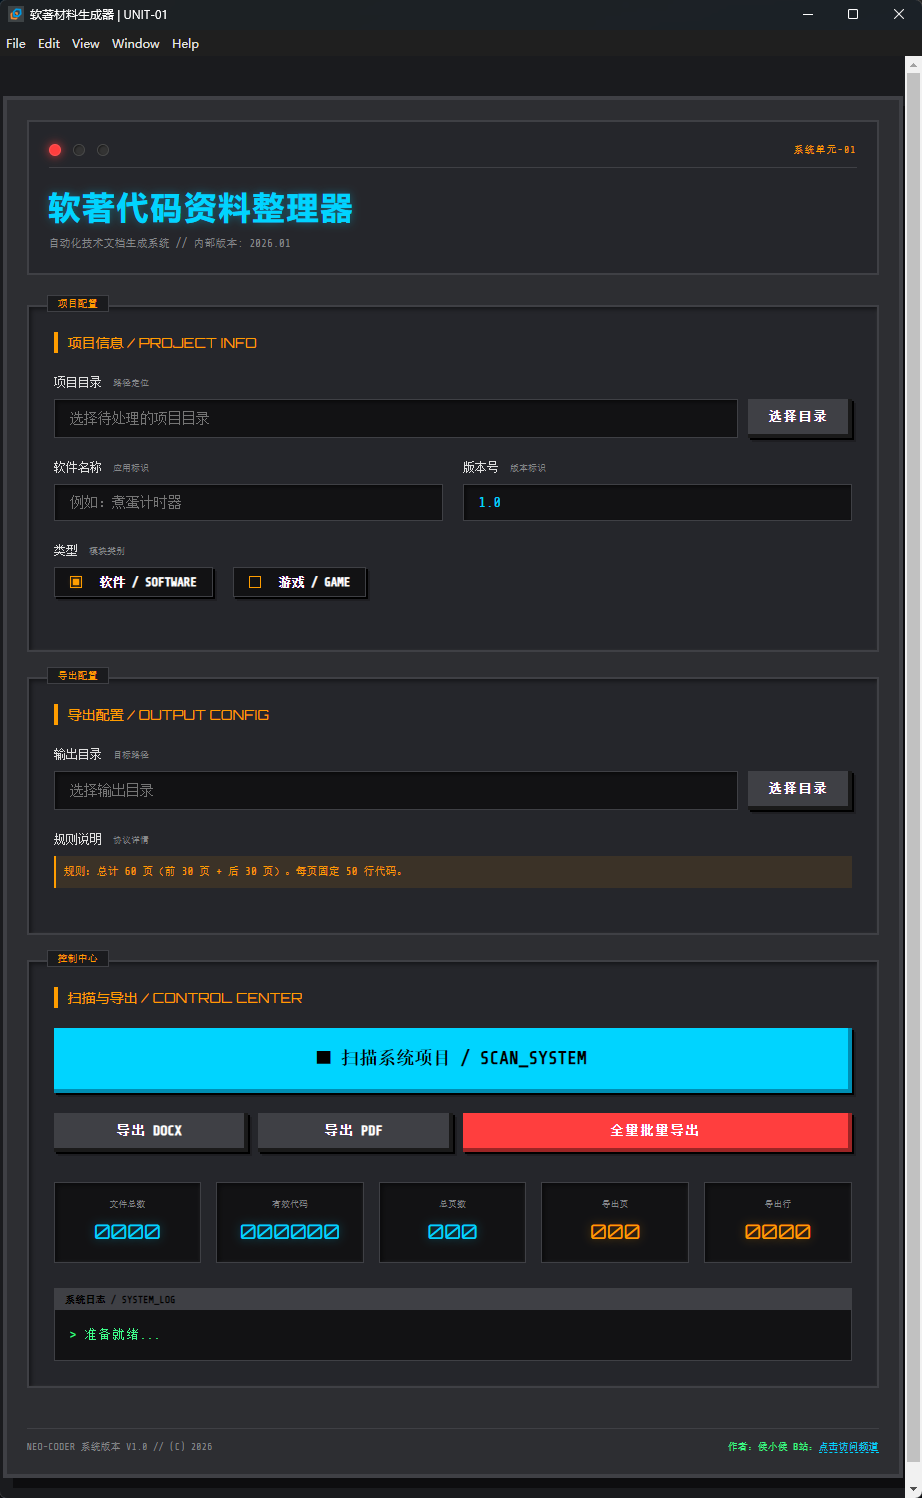
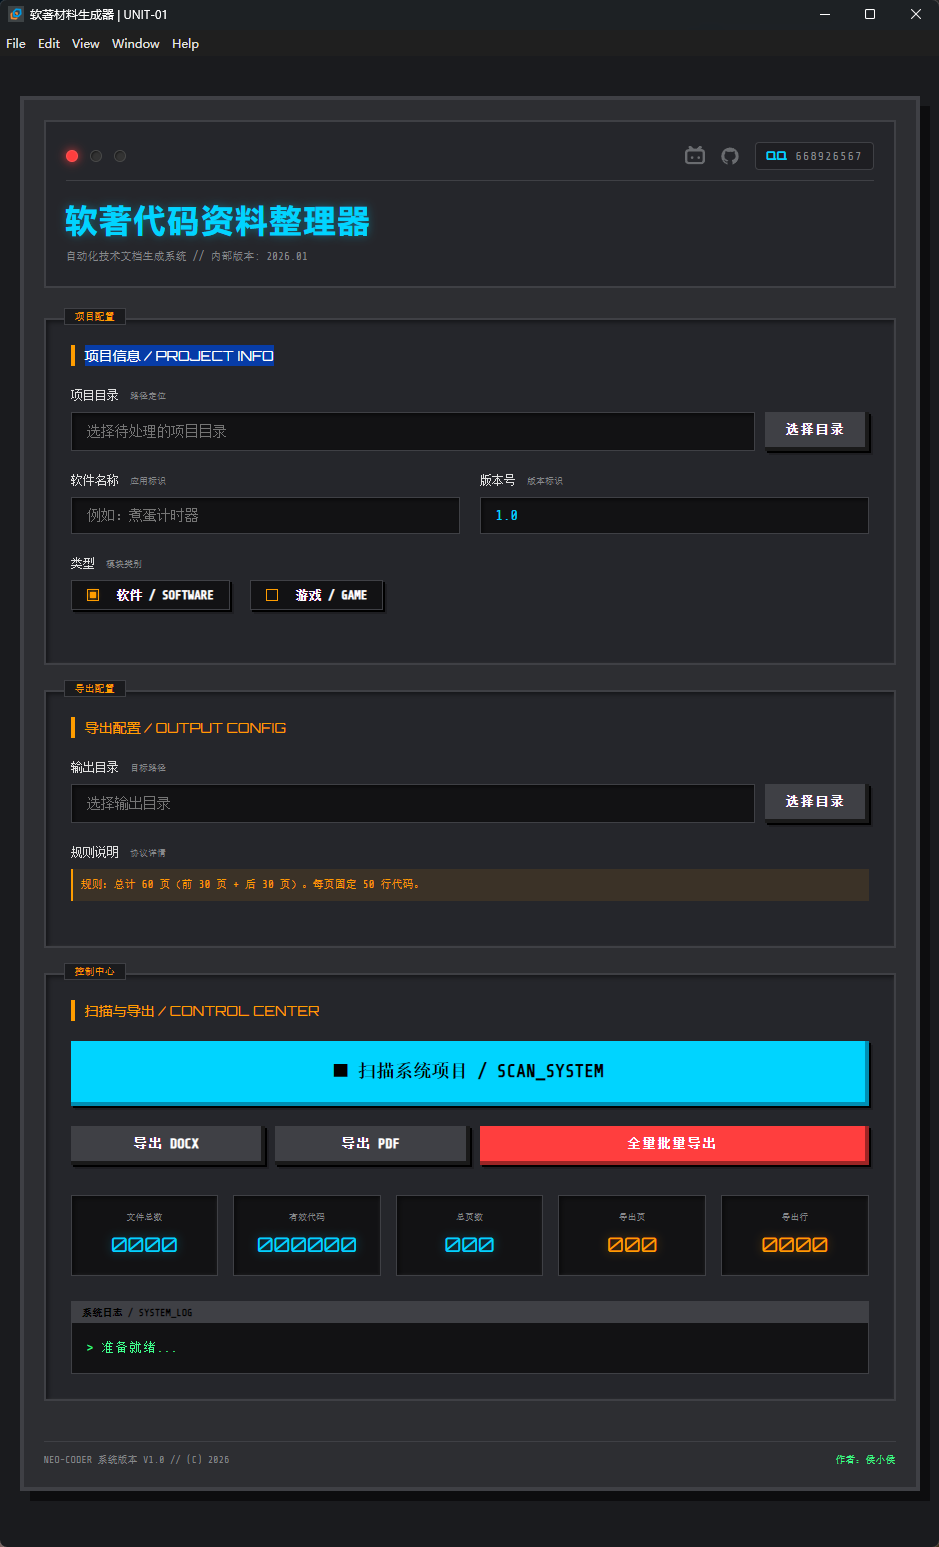
chore: update UI and gitignore

diff --git a/src/renderer/index.html b/src/renderer/index.html
@@ -1,4 +1,4 @@
-<!doctype html>
+<!doctype html>
 <html lang="zh-CN">
 
 <head>
@@ -26,7 +26,26 @@
           <span class="light amber"></span>
           <span class="light green"></span>
         </div>
-        <div class="model-tag">系统单元-01</div>
+        <div class="author-info">
+          <a href="#" class="social-link" id="linkBilibili" title="B站: 程序员小山与bug">
+            <!-- Bilibili Icon -->
+            <svg viewBox="0 0 512 512" width="16" height="16">
+              <path fill="currentColor"
+                d="M488.6 104.1c16.7 18.1 24.4 39.7 23.3 65.7v202.4c-.4 26.4-9.2 48.1-26.5 65.1-17.2 17-39.1 25.9-65.5 26.7H92.02c-26.45-.8-48.21-9.8-65.28-27.2C9.682 419.4.767 397.5 0 371.8V169.8c.766-26 9.682-47.6 26.74-65.7C43.81 87.75 65.57 78.77 92.02 78h29.38L96.05 52.24c-5.75-5.76-8.63-13.19-8.63-22.31 0-9.12 2.88-16.55 8.63-22.31l9.61-9.6a30.5 30.5 0 0 1 22.31-8.65c8.89 0 16.32 2.9 22.31 8.65l68.12 68.17h84.6l68.1-68.17c6-5.75 13.4-8.65 22.3-8.65 8.9 0 16.3 2.9 22.3 8.65l9.6 9.6c5.8 5.76 8.6 13.19 8.6 22.31 0 9.12-2.9 16.55-8.6 22.31L391 78h29.4c26.4.77 48.2 9.75 65.2 26.1zm-38.9 69.7c-.4-9.6-3.7-17.4-10.7-23.5-5.2-6.1-11.8-9.1-31.5-9.1H102.7c-19.67 0-26.31 3-31.49 9.1-6.99 6.1-10.3 13.9-10.74 23.5v202.8c.44 9.6 3.75 17.4 10.74 23.5 5.18 6.1 11.82 9.1 31.49 9.1H407.5c19.7 0 26.3-3 31.5-9.1 7-6.1 10.3-13.9 10.7-23.5V173.8zm-267 159.2c-19.58 0-35.45-15.9-35.45-35.4s15.87-35.4 35.45-35.4 35.45 15.9 35.45 35.4-15.87 35.4-35.45 35.4zm168.3 0c-19.6 0-35.5-15.9-35.5-35.4s15.9-35.4 35.5-35.4 35.4 15.9 35.4 35.4-15.8 35.4-35.4 35.4z" />
+            </svg>
+          </a>
+          <a href="#" class="social-link" id="linkGithub" title="GitHub: itxys/softwork-code-organizer">
+            <!-- GitHub Icon -->
+            <svg viewBox="0 0 1024 1024" width="16" height="16">
+              <path fill="currentColor"
+                d="M511.6 76.3C264.3 76.2 64 276.4 64 523.5 64 718.9 189.3 885 363.8 946c23.5 5.9 19.9-10.8 19.9-22.2v-77.5c-135.7 15.9-141.2-73.9-150.8-88.9C215 726 171.5 718 184.5 703c30.9-15.9 62.4 4 98.9 57.9 26.4 39.1 77.9 32.5 104 26 5.7-23.5 17.9-44.5 34.7-60.8-140.6-25.2-199.2-111-199.2-213 0-49.5 16.3-95 48.3-131.7-20.4-60.5 1.9-112.3 4.9-120 58.1-5.2 118.5 41.6 123.2 45.3 33-8.9 70.7-13.6 112.9-13.6 42.4 0 80.2 4.9 113.5 13.9 11.3-8.6 67.3-48.8 121.3-43.9 2.9 7.7 24.7 58.3 5.5 118 32.4 36.8 48.9 82.7 48.9 132.3 0 102.2-59 188.1-200 212.9a127.5 127.5 0 0 1 38.1 91v112.5c.8 9 0 17.9 15 17.9 177.1-59.7 304.6-227 304.6-424.1 0-247.2-200.4-447.3-447.5-447.3z" />
+            </svg>
+          </a>
+          <div class="qq-group">
+            <span class="qq-icon">QQ</span>
+            <span class="group-num">668926567</span>
+          </div>
+        </div>
       </div>
       <div class="title-group">
         <h1 class="title">软著代码资料整理器</h1>
@@ -135,8 +154,7 @@
 
     <footer class="app-footer">
       <div class="footer-info">NEO-CODER 系统版本 V1.0 // (C) 2026</div>
-      <div class="connection-status">作者：侯小侯 B站：<a href="#" data-url="https://space.bilibili.com/3099272"
-          class="external-link">点击访问频道</a></div>
+      <div class="connection-status">作者：侯小侯</div>
     </footer>
   </div>
 

diff --git a/src/renderer/styles.css b/src/renderer/styles.css
@@ -1,4 +1,4 @@
-:root {
+:root {
   /* Cassette Futurism Color Palette */
   --bg-color: #1a1b1e;
   --panel-bg: #2d2e32;
@@ -111,6 +111,74 @@ body {
 .light.green.active {
   background: var(--accent-green);
   box-shadow: 0 0 10px var(--accent-green);
+}
+
+/* Author Info Styling */
+.author-info {
+  display: flex;
+  align-items: center;
+  gap: 15px;
+}
+
+.social-link {
+  color: var(--text-muted);
+  transition: all 0.3s ease;
+  display: flex;
+  align-items: center;
+  justify-content: center;
+  text-decoration: none;
+  opacity: 0.7;
+}
+
+.social-link:hover {
+  color: var(--accent-teal);
+  transform: scale(1.1);
+  opacity: 1;
+  text-shadow: var(--glow-teal);
+}
+
+.social-link svg {
+  width: 20px;
+  height: 20px;
+}
+
+#linkBilibili:hover {
+  color: #fb7299; /* Bilibili Pink */
+  filter: drop-shadow(0 0 5px rgba(251, 114, 153, 0.4));
+}
+
+#linkGithub:hover {
+  color: #fff;
+  filter: drop-shadow(0 0 5px rgba(255, 255, 255, 0.4));
+}
+
+.qq-group {
+  display: flex;
+  align-items: center;
+  gap: 8px;
+  font-size: 12px;
+  color: var(--text-muted);
+  background: rgba(0, 0, 0, 0.2);
+  padding: 4px 10px;
+  border-radius: 4px;
+  border: 1px solid var(--border-color);
+  user-select: text; /* Allow copying QQ number */
+  transition: border-color 0.3s;
+}
+
+.qq-group:hover {
+  border-color: var(--accent-teal);
+}
+
+.qq-icon {
+  font-weight: bold;
+  color: var(--accent-teal);
+  font-family: 'Orbitron', sans-serif;
+}
+
+.group-num {
+  font-family: 'Share Tech Mono', monospace;
+  letter-spacing: 1px;
 }
 
 .model-tag {

diff --git a/src/renderer/renderer.js b/src/renderer/renderer.js
@@ -1,4 +1,4 @@
-const projectPathInput = document.getElementById('projectPath');
+const projectPathInput = document.getElementById('projectPath');
 const outputDirInput = document.getElementById('outputDir');
 const softwareNameInput = document.getElementById('softwareName');
 const softwareVersionInput = document.getElementById('softwareVersion');
@@ -289,9 +289,12 @@ btnExportPdf.addEventListener('click', exportPdf);
 btnExportBoth.addEventListener('click', exportBoth);
 
 // 外部链接跳转处理
-document.querySelector('.external-link').addEventListener('click', (e) => {
+document.getElementById('linkBilibili').addEventListener('click', (e) => {
   e.preventDefault();
-  const url = e.target.getAttribute('data-url');
-  if (url) window.softreg.openExternal(url);
+  window.softreg.openExternal('https://space.bilibili.com/3099272');
 });
 
+document.getElementById('linkGithub').addEventListener('click', (e) => {
+  e.preventDefault();
+  window.softreg.openExternal('https://github.com/itxys/softwork-code-organizer');
+});

diff --git a/README.md b/README.md
@@ -1,5 +1,7 @@
 ## 简体中文
 
+> 如果这款 **软著鉴别材料整理器** 对你的软著准备工作有帮助，欢迎在 GitHub 上帮忙点一个 Star，这对持续维护和改进项目是非常大的鼓励。
+
 ### 项目简介
 
 **软著鉴别材料整理器（Softwork Code Organizer）** 是一个桌面工具，用于生成软件著作权登记所需的程序鉴别材料（源程序部分）。  
@@ -161,6 +163,10 @@ npm run dist
 ```
 
 For Linux and macOS builds, it is recommended to use the GitHub Actions workflows defined in this repository (they run on Linux / macOS runners and produce AppImage / dmg artifacts).
+
+### Support
+
+If you find **Softwork Code Organizer (软著鉴别材料整理器)** helpful, please consider starring this repository on GitHub — it really helps motivate ongoing maintenance and improvements.
 
 ---
 
